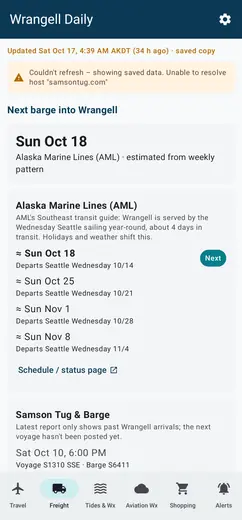
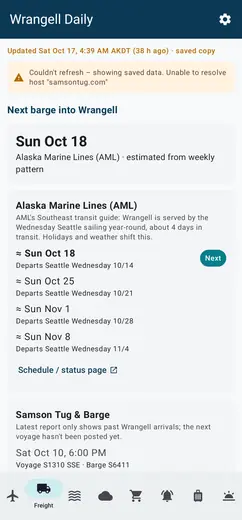
Wrangell Daily: 0.5.0 features and screenshots

diff --git a/wrangell-daily/index.html b/wrangell-daily/index.html
@@ -50,14 +50,14 @@
 </g></svg>
 </div></div>
 <section><div class="wrap">
- <h2>A day on the island, in six tabs</h2>
+ <h2>A day on the island, in one app</h2>
  <p class="sub">Life in Southeast Alaska runs on boats, planes, tides and weather. Wrangell Daily keeps an eye on all of them, and you can pick which tabs you want. There may be a few surprises hidden in the app.</p>
- <div class="features"><div class="feature"><div class="ico"><svg viewBox="0 0 24 24" aria-hidden="true"><path d="M3 17l2 4h14l2-4z M5 17V11h14v6 M9 11V7h6v4"/></svg></div><h3>Ferries and barges</h3><p>The next northbound and southbound ferry with delays and the boat&#x27;s position, plus when the AML and Samson barges are due.</p></div><div class="feature"><div class="ico"><svg viewBox="0 0 24 24" aria-hidden="true"><path d="M2 16l20-6-20-6 4 6z M6 10h8"/></svg></div><h3>Flights through Wrangell</h3><p>AS64 and AS65 legs through Wrangell: scheduled and estimated times, gate and delays, from public flight-status pages.</p></div><div class="feature"><div class="ico"><svg viewBox="0 0 24 24" aria-hidden="true"><path d="M2 12c2-2 4-2 6 0s4 2 6 0 4-2 6 0M2 17c2-2 4-2 6 0s4 2 6 0 4-2 6 0M2 7c2-2 4-2 6 0s4 2 6 0 4-2 6 0"/></svg></div><h3>Tides you can feel</h3><p>A 48-hour tide curve painted like a watercolor, with highs and lows marked. Watch for the occasional fish or squid.</p></div><div class="feature"><div class="ico"><svg viewBox="0 0 24 24" aria-hidden="true"><path d="M7 18h10a4 4 0 0 0 0-8 6 6 0 0 0-11.5 1.5A3.5 3.5 0 0 0 7 18z"/></svg></div><h3>Weather with icons</h3><p>Current conditions, the next 12 hours, the multi-day forecast and the local marine zones, each with a hand-drawn icon.</p></div><div class="feature"><div class="ico"><svg viewBox="0 0 24 24" aria-hidden="true"><path d="M4 6h10M18 6h2M4 12h4M12 12h8M4 18h12M20 18h0"/><circle cx="16" cy="6" r="2"/><circle cx="10" cy="12" r="2"/><circle cx="18" cy="18" r="2"/></svg></div><h3>Aviation weather, in plain English</h3><p>Decoded METARs and TAFs for Wrangell, Ketchikan and Petersburg, with color-coded visibility and ceilings that use symbols as well as color.</p></div><div class="feature"><div class="ico"><svg viewBox="0 0 24 24" aria-hidden="true"><circle cx="9" cy="20" r="1.5"/><circle cx="17" cy="20" r="1.5"/><path d="M3 4h2l2.5 11h11L21 8H6.2"/></svg></div><h3>Shopping list for trips south</h3><p>Note what to pick up at Walmart or Amazon and whether it comes home in a checked bag or by air cargo.</p></div><div class="feature"><div class="ico"><svg viewBox="0 0 24 24" aria-hidden="true"><path d="M13 2L4 14h7l-1 8 9-12h-7z"/></svg></div><h3>Power and water notices</h3><p>Outage and boil-water notices from local sources, with optional notifications.</p></div><div class="feature"><div class="ico"><svg viewBox="0 0 24 24" aria-hidden="true"><path d="M2 2l20 20M8.5 16.5a5 5 0 0 1 7 0M5 13a10 10 0 0 1 5.2-2.8M19 13a10 10 0 0 0-2.4-1.7M2 8.8a15 15 0 0 1 4.2-2.6M22 8.8A15 15 0 0 0 10.7 5"/><circle cx="12" cy="20" r="1"/></svg></div><h3>Works when the signal doesn&#x27;t</h3><p>Every tab keeps its last copy and says how old it is. Pull down to refresh when you&#x27;re back in range.</p></div></div>
+ <div class="features"><div class="feature"><div class="ico"><svg viewBox="0 0 24 24" aria-hidden="true"><path d="M3 17l2 4h14l2-4z M5 17V11h14v6 M9 11V7h6v4"/></svg></div><h3>Ferries and barges</h3><p>The next northbound and southbound ferry with delays and the boat&#x27;s position, plus when the AML and Samson barges are due.</p></div><div class="feature"><div class="ico"><svg viewBox="0 0 24 24" aria-hidden="true"><path d="M2 16l20-6-20-6 4 6z M6 10h8"/></svg></div><h3>Your flights</h3><p>Pick up to five flights by number or by route between your airports. See scheduled and estimated times, gates and delays from public flight-status pages, with alerts you can switch per flight.</p></div><div class="feature"><div class="ico"><svg viewBox="0 0 24 24" aria-hidden="true"><path d="M2 12c2-2 4-2 6 0s4 2 6 0 4-2 6 0M2 17c2-2 4-2 6 0s4 2 6 0 4-2 6 0M2 7c2-2 4-2 6 0s4 2 6 0 4-2 6 0"/></svg></div><h3>Tides you can feel</h3><p>A 48-hour tide curve painted like a watercolor, with highs and lows marked. Watch for the occasional fish or squid.</p></div><div class="feature"><div class="ico"><svg viewBox="0 0 24 24" aria-hidden="true"><path d="M7 18h10a4 4 0 0 0 0-8 6 6 0 0 0-11.5 1.5A3.5 3.5 0 0 0 7 18z"/></svg></div><h3>Weather with icons</h3><p>Current conditions, the next 12 hours, the multi-day forecast and the local marine zones, each with a hand-drawn icon.</p></div><div class="feature"><div class="ico"><svg viewBox="0 0 24 24" aria-hidden="true"><path d="M4 6h10M18 6h2M4 12h4M12 12h8M4 18h12M20 18h0"/><circle cx="16" cy="6" r="2"/><circle cx="10" cy="12" r="2"/><circle cx="18" cy="18" r="2"/></svg></div><h3>Aviation weather, in plain English</h3><p>Decoded METARs and TAFs for up to five Southeast Alaska airports, with color-coded visibility and ceilings that use symbols as well as color.</p></div><div class="feature"><div class="ico"><svg viewBox="0 0 24 24" aria-hidden="true"><circle cx="9" cy="20" r="1.5"/><circle cx="17" cy="20" r="1.5"/><path d="M3 4h2l2.5 11h11L21 8H6.2"/></svg></div><h3>Shopping, both directions</h3><p>Southbound and Northbound lists, one per trip if you like. An experimental calculator compares checked bags with air cargo (estimates, not quotes).</p></div><div class="feature"><div class="ico"><svg viewBox="0 0 24 24" aria-hidden="true"><rect x="3" y="5" width="18" height="16" rx="2"/><path d="M3 10h18M8 3v4M16 3v4"/></svg></div><h3>Countdowns and ferry reminders</h3><p>Count down to the next trip, pin your favorite, and get a reminder before a ferry sailing you picked from the schedule.</p></div><div class="feature"><div class="ico"><svg viewBox="0 0 24 24" aria-hidden="true"><circle cx="12" cy="14" r="4"/><path d="M2 18h20M12 4v3M4.9 7.9l2.1 2.1M19.1 7.9 17 10M2 14h3M19 14h3"/></svg></div><h3>Daylight</h3><p>Experimental: sunrise, sunset, twilight and the minutes gained or lost each day, worked out right on the phone.</p></div><div class="feature"><div class="ico"><svg viewBox="0 0 24 24" aria-hidden="true"><rect x="3" y="3" width="8" height="8" rx="2"/><rect x="13" y="3" width="8" height="5" rx="2"/><rect x="13" y="10" width="8" height="11" rx="2"/><rect x="3" y="13" width="8" height="8" rx="2"/></svg></div><h3>Home-screen widgets</h3><p>Next flight, the tide, flight categories and a countdown at a glance. They use what the app already has, so they add no extra requests.</p></div><div class="feature"><div class="ico"><svg viewBox="0 0 24 24" aria-hidden="true"><path d="M13 2L4 14h7l-1 8 9-12h-7z"/></svg></div><h3>Power and water notices</h3><p>Outage and boil-water notices from local sources, with optional notifications.</p></div><div class="feature"><div class="ico"><svg viewBox="0 0 24 24" aria-hidden="true"><path d="M2 2l20 20M8.5 16.5a5 5 0 0 1 7 0M5 13a10 10 0 0 1 5.2-2.8M19 13a10 10 0 0 0-2.4-1.7M2 8.8a15 15 0 0 1 4.2-2.6M22 8.8A15 15 0 0 0 10.7 5"/><circle cx="12" cy="20" r="1"/></svg></div><h3>Works when the signal doesn&#x27;t</h3><p>Every tab keeps its last copy and says how old it is. Pull down to refresh when you&#x27;re back in range.</p></div></div>
 </div></section>
 <section class="band"><div class="wrap">
  <h2>Screenshots</h2>
  <p class="sub">Tap any screenshot to enlarge it. Most show public data captured on Oct 17, 2026; anything else is marked as example data.</p>
- <div class="gallery"><figure><a href="/wrangell-daily/img/travel.webp"><img src="/wrangell-daily/img/travel-t.webp" width="242" height="520" loading="lazy" decoding="async" alt="Travel: today&#x27;s AS64 and AS65 legs through Wrangell, with times, gates and status. (Public flight-status data, Oct 17 2026.)"></a><figcaption>Travel: today&#x27;s AS64 and AS65 legs through Wrangell, with times, gates and status. (Public flight-status data, Oct 17 2026.)</figcaption></figure><figure><a href="/wrangell-daily/img/freight.webp"><img src="/wrangell-daily/img/freight-t.webp" width="242" height="520" loading="lazy" decoding="async" alt="Freight: when the next barge is due, for both AML and Samson."></a><figcaption>Freight: when the next barge is due, for both AML and Samson.</figcaption></figure><figure><a href="/wrangell-daily/img/tides-weather.webp"><img src="/wrangell-daily/img/tides-weather-t.webp" width="242" height="520" loading="lazy" decoding="async" alt="Tides &amp; Weather: conditions at the airport, the next 12 hours and the tide curve."></a><figcaption>Tides &amp; Weather: conditions at the airport, the next 12 hours and the tide curve.</figcaption></figure><figure><a href="/wrangell-daily/img/tide-fish.webp"><img src="/wrangell-daily/img/tide-fish-t.webp" width="480" height="520" loading="lazy" decoding="async" alt="The tide chart is painted like a watercolor, and now and then a little fish swims by."></a><figcaption>The tide chart is painted like a watercolor, and now and then a little fish swims by.</figcaption></figure><figure><a href="/wrangell-daily/img/tide-squid.webp"><img src="/wrangell-daily/img/tide-squid-t.webp" width="480" height="520" loading="lazy" decoding="async" alt="Sometimes a squid shows up instead. (The animation can be switched off.)"></a><figcaption>Sometimes a squid shows up instead. (The animation can be switched off.)</figcaption></figure><figure><a href="/wrangell-daily/img/tide-dark.webp"><img src="/wrangell-daily/img/tide-dark-t.webp" width="480" height="520" loading="lazy" decoding="async" alt="The watercolor tide chart in dark mode."></a><figcaption>The watercolor tide chart in dark mode.</figcaption></figure><figure><a href="/wrangell-daily/img/forecast-hourly.webp"><img src="/wrangell-daily/img/forecast-hourly-t.webp" width="400" height="520" loading="lazy" decoding="async" alt="Weather icons for the current conditions and every hour ahead, with day and night versions."></a><figcaption>Weather icons for the current conditions and every hour ahead, with day and night versions.</figcaption></figure><figure><a href="/wrangell-daily/img/forecast-days.webp"><img src="/wrangell-daily/img/forecast-days-t.webp" width="242" height="520" loading="lazy" decoding="async" alt="The multi-day forecast, each period with its own icon."></a><figcaption>The multi-day forecast, each period with its own icon.</figcaption></figure><figure><a href="/wrangell-daily/img/icon-set.webp"><img src="/wrangell-daily/img/icon-set-t.webp" width="640" height="480" loading="lazy" decoding="async" alt="The complete icon set, drawn from scratch for the app."></a><figcaption>The complete icon set, drawn from scratch for the app.</figcaption></figure><figure><a href="/wrangell-daily/img/aviation.webp"><img src="/wrangell-daily/img/aviation-t.webp" width="242" height="520" loading="lazy" decoding="async" alt="Aviation Wx: flight categories, advisories, and METARs decoded into plain English for Wrangell, Ketchikan and Petersburg."></a><figcaption>Aviation Wx: flight categories, advisories, and METARs decoded into plain English for Wrangell, Ketchikan and Petersburg.</figcaption></figure><figure><a href="/wrangell-daily/img/aviation-colors.webp"><img src="/wrangell-daily/img/aviation-colors-t.webp" width="289" height="520" loading="lazy" decoding="async" alt="Color-coded visibility and ceiling, with ▲ markers so the color is never the only cue. (Example data.)"></a><figcaption>Color-coded visibility and ceiling, with ▲ markers so the color is never the only cue. (Example data.)</figcaption></figure><figure><a href="/wrangell-daily/img/onboarding.webp"><img src="/wrangell-daily/img/onboarding-t.webp" width="242" height="520" loading="lazy" decoding="async" alt="On first launch, pick the tabs you want."></a><figcaption>On first launch, pick the tabs you want.</figcaption></figure><figure><a href="/wrangell-daily/img/settings-tabs.webp"><img src="/wrangell-daily/img/settings-tabs-t.webp" width="242" height="520" loading="lazy" decoding="async" alt="Show, hide and reorder tabs at any time in Settings."></a><figcaption>Show, hide and reorder tabs at any time in Settings.</figcaption></figure><figure><a href="/wrangell-daily/img/offline.webp"><img src="/wrangell-daily/img/offline-t.webp" width="242" height="520" loading="lazy" decoding="async" alt="No signal? The app shows the last saved copy and says how old it is."></a><figcaption>No signal? The app shows the last saved copy and says how old it is.</figcaption></figure></div>
+ <div class="gallery"><figure><a href="/wrangell-daily/img/travel.webp"><img src="/wrangell-daily/img/travel-t.webp" width="242" height="520" loading="lazy" decoding="async" alt="Travel: today&#x27;s AS64 and AS65 legs through Wrangell, with times, gates and status. (Public flight-status data, Oct 17 2026.)"></a><figcaption>Travel: today&#x27;s AS64 and AS65 legs through Wrangell, with times, gates and status. (Public flight-status data, Oct 17 2026.)</figcaption></figure><figure><a href="/wrangell-daily/img/freight.webp"><img src="/wrangell-daily/img/freight-t.webp" width="242" height="520" loading="lazy" decoding="async" alt="Freight: when the next barge is due, for both AML and Samson."></a><figcaption>Freight: when the next barge is due, for both AML and Samson.</figcaption></figure><figure><a href="/wrangell-daily/img/tides-weather.webp"><img src="/wrangell-daily/img/tides-weather-t.webp" width="242" height="520" loading="lazy" decoding="async" alt="Tides &amp; Weather: conditions at the airport, the next 12 hours and the tide curve."></a><figcaption>Tides &amp; Weather: conditions at the airport, the next 12 hours and the tide curve.</figcaption></figure><figure><a href="/wrangell-daily/img/tide-fish.webp"><img src="/wrangell-daily/img/tide-fish-t.webp" width="480" height="520" loading="lazy" decoding="async" alt="The tide chart is painted like a watercolor, and now and then a little fish swims by."></a><figcaption>The tide chart is painted like a watercolor, and now and then a little fish swims by.</figcaption></figure><figure><a href="/wrangell-daily/img/tide-squid.webp"><img src="/wrangell-daily/img/tide-squid-t.webp" width="480" height="520" loading="lazy" decoding="async" alt="Sometimes a squid shows up instead. (The animation can be switched off.)"></a><figcaption>Sometimes a squid shows up instead. (The animation can be switched off.)</figcaption></figure><figure><a href="/wrangell-daily/img/tide-dark.webp"><img src="/wrangell-daily/img/tide-dark-t.webp" width="480" height="520" loading="lazy" decoding="async" alt="The watercolor tide chart in dark mode."></a><figcaption>The watercolor tide chart in dark mode.</figcaption></figure><figure><a href="/wrangell-daily/img/forecast-hourly.webp"><img src="/wrangell-daily/img/forecast-hourly-t.webp" width="400" height="520" loading="lazy" decoding="async" alt="Weather icons for the current conditions and every hour ahead, with day and night versions."></a><figcaption>Weather icons for the current conditions and every hour ahead, with day and night versions.</figcaption></figure><figure><a href="/wrangell-daily/img/forecast-days.webp"><img src="/wrangell-daily/img/forecast-days-t.webp" width="242" height="520" loading="lazy" decoding="async" alt="The multi-day forecast, each period with its own icon."></a><figcaption>The multi-day forecast, each period with its own icon.</figcaption></figure><figure><a href="/wrangell-daily/img/icon-set.webp"><img src="/wrangell-daily/img/icon-set-t.webp" width="640" height="480" loading="lazy" decoding="async" alt="The complete icon set, drawn from scratch for the app."></a><figcaption>The complete icon set, drawn from scratch for the app.</figcaption></figure><figure><a href="/wrangell-daily/img/aviation.webp"><img src="/wrangell-daily/img/aviation-t.webp" width="242" height="520" loading="lazy" decoding="async" alt="Aviation Wx: flight categories, advisories, and METARs decoded into plain English for Wrangell, Ketchikan and Petersburg."></a><figcaption>Aviation Wx: flight categories, advisories, and METARs decoded into plain English for Wrangell, Ketchikan and Petersburg.</figcaption></figure><figure><a href="/wrangell-daily/img/aviation-colors.webp"><img src="/wrangell-daily/img/aviation-colors-t.webp" width="289" height="520" loading="lazy" decoding="async" alt="Color-coded visibility and ceiling, with ▲ markers so the color is never the only cue. (Example data.)"></a><figcaption>Color-coded visibility and ceiling, with ▲ markers so the color is never the only cue. (Example data.)</figcaption></figure><figure><a href="/wrangell-daily/img/onboarding.webp"><img src="/wrangell-daily/img/onboarding-t.webp" width="242" height="520" loading="lazy" decoding="async" alt="On first launch, pick the tabs you want."></a><figcaption>On first launch, pick the tabs you want.</figcaption></figure><figure><a href="/wrangell-daily/img/settings-tabs.webp"><img src="/wrangell-daily/img/settings-tabs-t.webp" width="343" height="520" loading="lazy" decoding="async" alt="Show, hide and reorder tabs at any time in Settings."></a><figcaption>Show, hide and reorder tabs at any time in Settings.</figcaption></figure><figure><a href="/wrangell-daily/img/offline.webp"><img src="/wrangell-daily/img/offline-t.webp" width="242" height="520" loading="lazy" decoding="async" alt="No signal? The app shows the last saved copy and says how old it is."></a><figcaption>No signal? The app shows the last saved copy and says how old it is.</figcaption></figure><figure><a href="/wrangell-daily/img/shopping-northbound.webp"><img src="/wrangell-daily/img/shopping-northbound-t.webp" width="242" height="520" loading="lazy" decoding="async" alt="Shopping now has Southbound and Northbound lists, with named lists per trip and four ways to bring things north."></a><figcaption>Shopping now has Southbound and Northbound lists, with named lists per trip and four ways to bring things north.</figcaption></figure><figure><a href="/wrangell-daily/img/cargo-calculator.webp"><img src="/wrangell-daily/img/cargo-calculator-t.webp" width="242" height="520" loading="lazy" decoding="async" alt="Experimental: compare checked bags with air cargo and get a suggested packing split. Estimates, not quotes. (Example values.)"></a><figcaption>Experimental: compare checked bags with air cargo and get a suggested packing split. Estimates, not quotes. (Example values.)</figcaption></figure><figure><a href="/wrangell-daily/img/flight-picker.webp"><img src="/wrangell-daily/img/flight-picker-t.webp" width="242" height="520" loading="lazy" decoding="async" alt="Pick up to five flights to follow, each with its own alerts switch. (Five keeps requests light.)"></a><figcaption>Pick up to five flights to follow, each with its own alerts switch. (Five keeps requests light.)</figcaption></figure><figure><a href="/wrangell-daily/img/flight-routes.webp"><img src="/wrangell-daily/img/flight-routes-t.webp" width="242" height="520" loading="lazy" decoding="async" alt="Find flights by number or by route between your airports, with a preview of today&#x27;s public status."></a><figcaption>Find flights by number or by route between your airports, with a preview of today&#x27;s public status.</figcaption></figure><figure><a href="/wrangell-daily/img/airport-picker.webp"><img src="/wrangell-daily/img/airport-picker-t.webp" width="242" height="520" loading="lazy" decoding="async" alt="Choose up to five Southeast Alaska airports for aviation weather. They share one weather request."></a><figcaption>Choose up to five Southeast Alaska airports for aviation weather. They share one weather request.</figcaption></figure><figure><a href="/wrangell-daily/img/trips.webp"><img src="/wrangell-daily/img/trips-t.webp" width="242" height="520" loading="lazy" decoding="async" alt="Trips: countdowns (pin one) and ferry reminders from the AMHS schedule. (Example countdowns.)"></a><figcaption>Trips: countdowns (pin one) and ferry reminders from the AMHS schedule. (Example countdowns.)</figcaption></figure><figure><a href="/wrangell-daily/img/daylight.webp"><img src="/wrangell-daily/img/daylight-t.webp" width="242" height="520" loading="lazy" decoding="async" alt="Experimental: sunrise, sunset, twilight and how much daylight you gained or lost since yesterday, worked out on the phone."></a><figcaption>Experimental: sunrise, sunset, twilight and how much daylight you gained or lost since yesterday, worked out on the phone.</figcaption></figure><figure><a href="/wrangell-daily/img/daylight-dark.webp"><img src="/wrangell-daily/img/daylight-dark-t.webp" width="242" height="520" loading="lazy" decoding="async" alt="The daylight tracker in dark mode, with the year at a glance."></a><figcaption>The daylight tracker in dark mode, with the year at a glance.</figcaption></figure><figure><a href="/wrangell-daily/img/daylight-card.webp"><img src="/wrangell-daily/img/daylight-card-t.webp" width="242" height="520" loading="lazy" decoding="async" alt="A small daylight card sits on the Tides &amp; Wx tab."></a><figcaption>A small daylight card sits on the Tides &amp; Wx tab.</figcaption></figure><figure><a href="/wrangell-daily/img/widgets.webp"><img src="/wrangell-daily/img/widgets-t.webp" width="394" height="520" loading="lazy" decoding="async" alt="Home-screen widgets: next flight, tide, flight categories and a countdown, in several sizes. (Example countdown.)"></a><figcaption>Home-screen widgets: next flight, tide, flight categories and a countdown, in several sizes. (Example countdown.)</figcaption></figure><figure><a href="/wrangell-daily/img/widgets-dark.webp"><img src="/wrangell-daily/img/widgets-dark-t.webp" width="394" height="520" loading="lazy" decoding="async" alt="The widgets follow dark mode."></a><figcaption>The widgets follow dark mode.</figcaption></figure><figure><a href="/wrangell-daily/img/upgrade-picker.webp"><img src="/wrangell-daily/img/upgrade-picker-t.webp" width="242" height="520" loading="lazy" decoding="async" alt="After updating, new tabs are listed but left off until you pick them."></a><figcaption>After updating, new tabs are listed but left off until you pick them.</figcaption></figure></div>
 </div></section>
 <section><div class="wrap"><p class="note">Wrangell Daily is an independent personal project and isn't publicly available yet. It's not an official source. For travel, weather and flying, always check the airline, AMHS, NOAA/NWS or the FAA directly.</p></div></section>
 

diff --git a/index.html b/index.html
@@ -39,7 +39,7 @@
   <a class="app-card c-pg" href="/phone-gallery/"><div class="shot"><img src="/phone-gallery/img/grid-t.webp" alt="Phone Gallery showing a grid of sample photos" loading="lazy"></div>
    <div class="body"><h3>Phone Gallery</h3><p>Browse every photo and video on your phone from any browser on your home Wi-Fi. Timeline, slideshows, a TV mode and a duplicate finder.</p><span class="go">See Phone Gallery →</span></div></a>
   <a class="app-card c-wd" href="/wrangell-daily/"><div class="shot"><img src="/wrangell-daily/img/tide-fish-t.webp" alt="Wrangell Daily watercolor tide chart with a small fish" loading="lazy"></div>
-   <div class="body"><h3>Wrangell Daily</h3><p>Ferries, flights, barges, tides, weather, aviation weather, a shopping list and local alerts, all in Alaska time.</p><span class="go">See Wrangell Daily →</span></div></a>
+   <div class="body"><h3>Wrangell Daily</h3><p>Ferries, flights, barges, tides, weather, aviation weather, shopping lists, countdowns, daylight and local alerts, plus home-screen widgets, all in Alaska time.</p><span class="go">See Wrangell Daily →</span></div></a>
  </div>
 </div></section>
 
